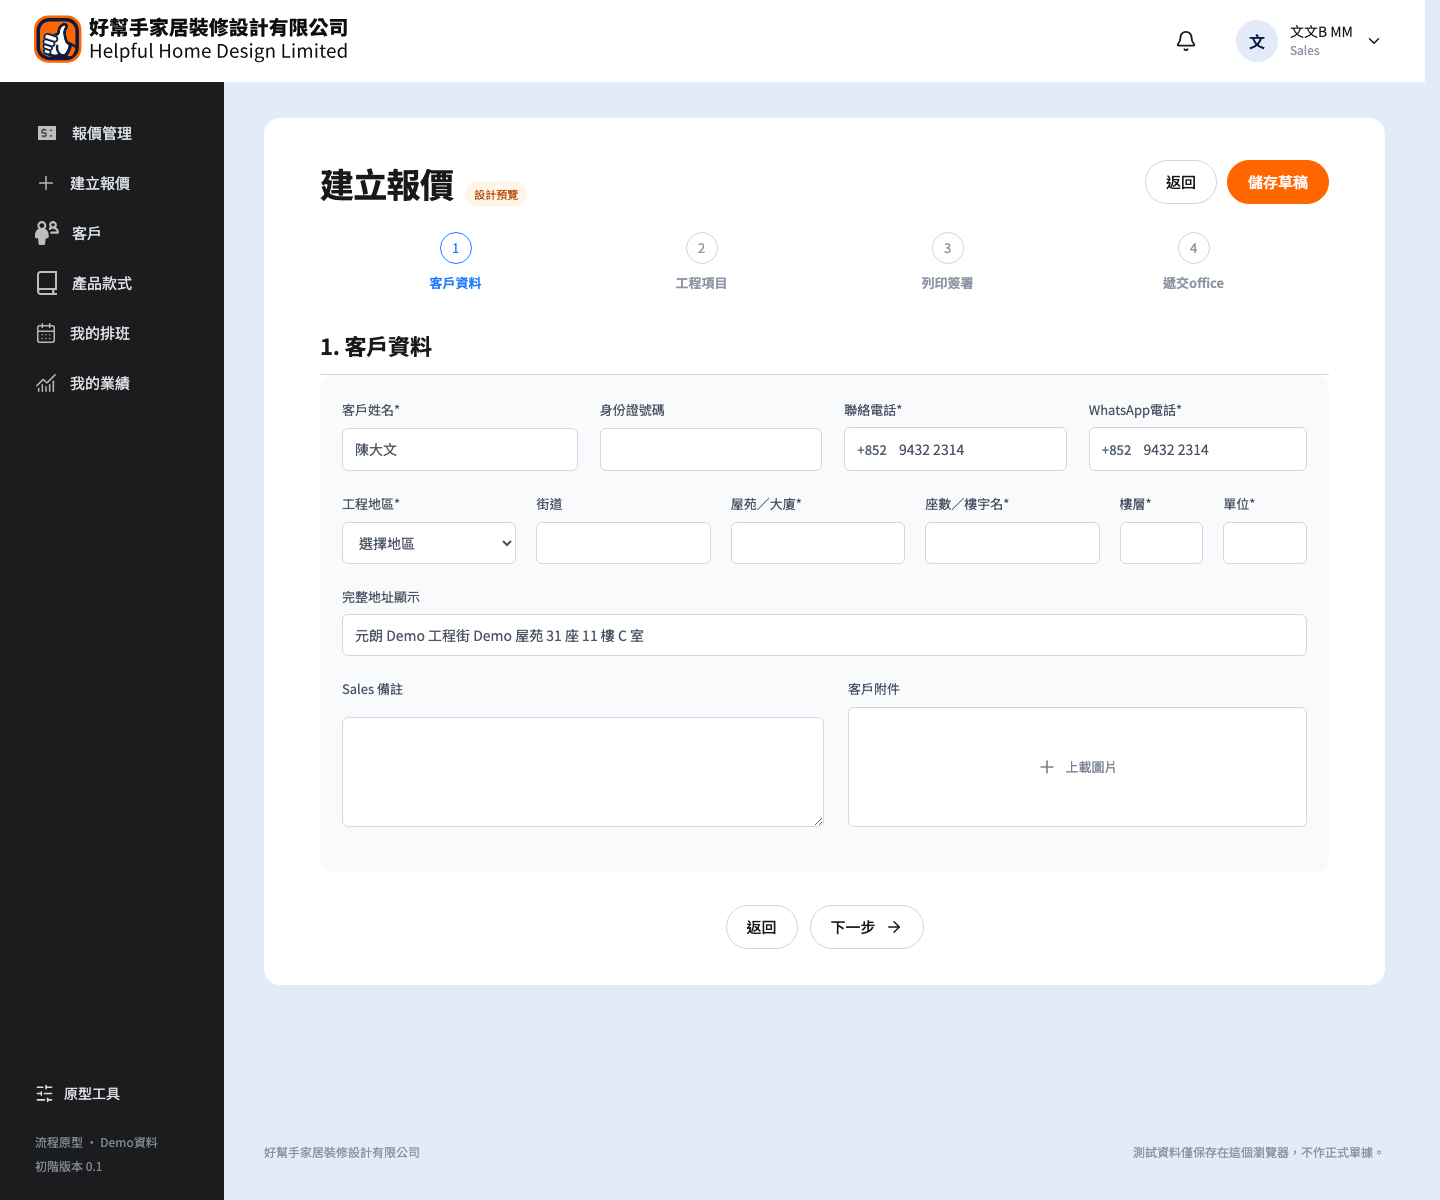
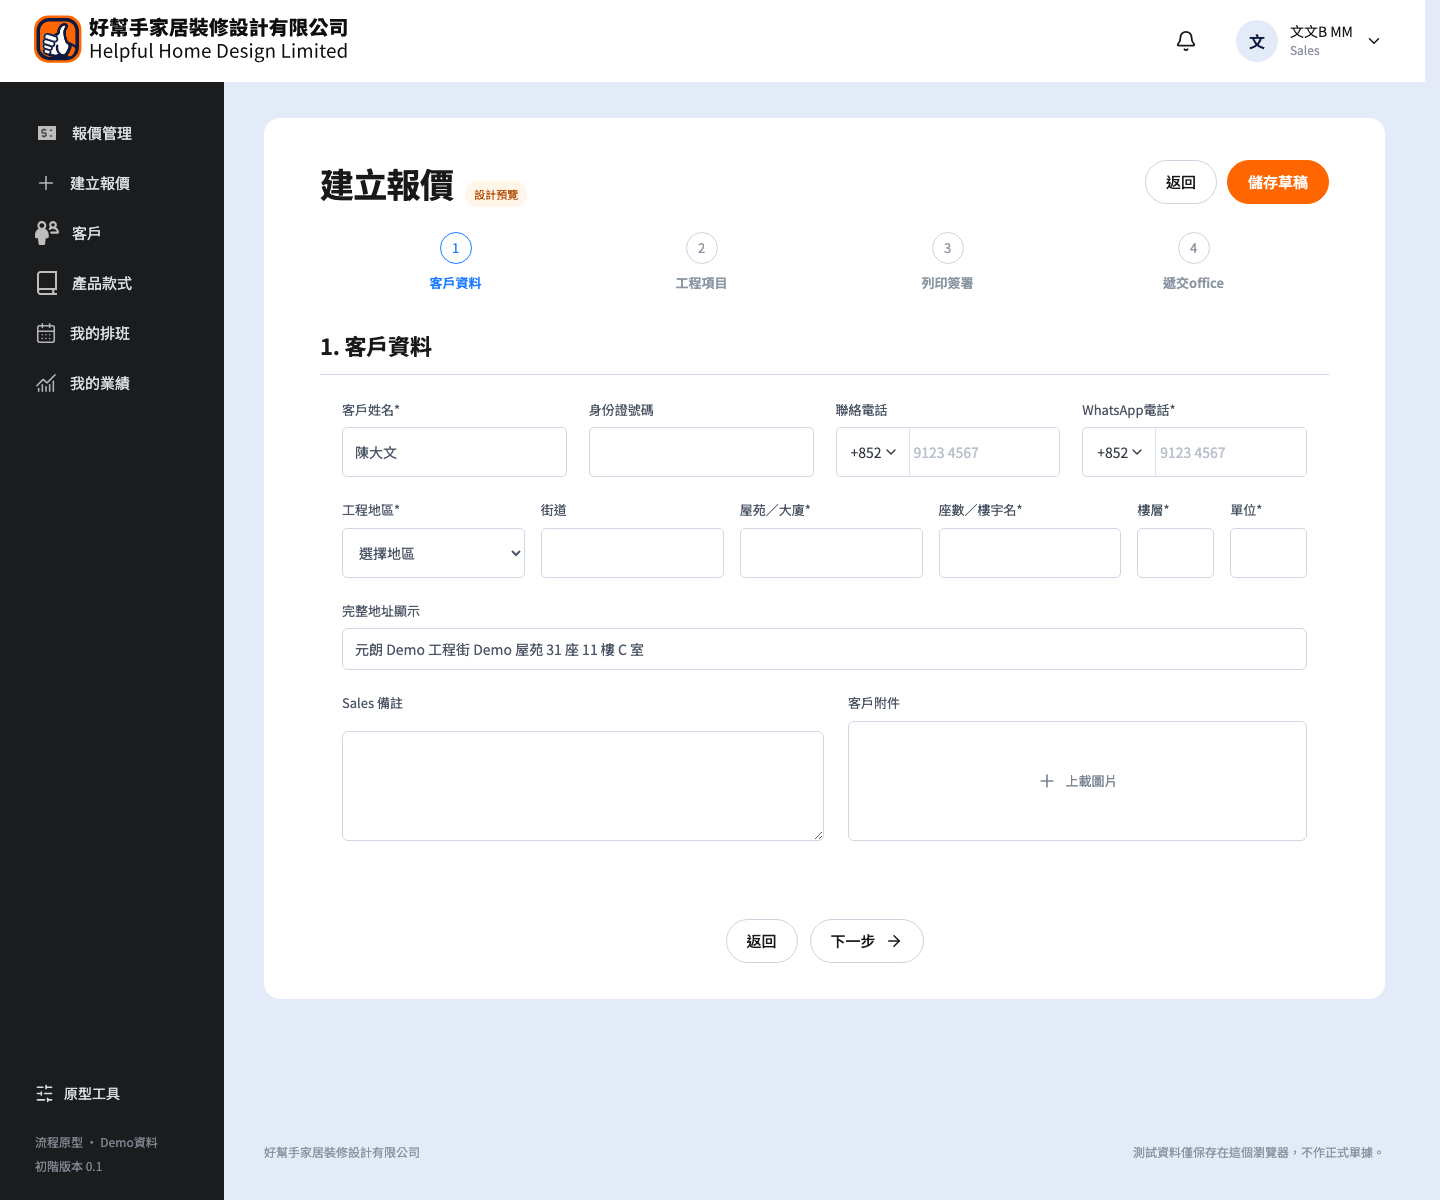
fix(design): match Sales customer information field grid

diff --git a/src/styles.css b/src/styles.css
@@ -9535,3 +9535,76 @@ textarea::placeholder {
     min-height: 90px;
   }
 }
+
+/* Quote step 1 fields: exact reference grid */
+.quote-form-grid.four {
+  grid-template-columns: repeat(4, minmax(0, 1fr));
+  gap: 20px 22px;
+}
+.quote-form-grid.six {
+  grid-template-columns: repeat(4, minmax(0, 1fr)) 0.42fr 0.42fr;
+  gap: 18px 16px;
+}
+.quote-form-grid.four input,
+.quote-form-grid.six input,
+.quote-form-grid.four select,
+.quote-form-grid.six select {
+  min-height: 50px;
+  height: 50px;
+  border-radius: 5px;
+  font-size: 14px;
+}
+.quote-step-section {
+  padding: 24px 22px;
+  background: #fff;
+}
+.quote-phone-input {
+  position: relative;
+  display: flex;
+  align-items: center;
+  height: 50px;
+  overflow: hidden;
+  border: 1px solid #cfd8e4;
+  border-radius: 5px;
+  background: #fff;
+}
+.quote-phone-input select {
+  width: 72px;
+  min-height: 48px !important;
+  height: 48px !important;
+  flex: 0 0 72px;
+  appearance: none;
+  padding: 0 4px 0 14px;
+  border: 0 !important;
+  border-radius: 0 !important;
+  background: transparent;
+  color: #313642;
+  font-size: 14px;
+}
+.quote-phone-input > svg {
+  position: absolute;
+  left: 46px;
+  pointer-events: none;
+  color: #313642;
+}
+.quote-phone-input input {
+  min-width: 0;
+  flex: 1;
+  min-height: 48px !important;
+  height: 48px !important;
+  padding-left: 4px;
+  border: 0 !important;
+  border-left: 1px solid #dbe3ee !important;
+  border-radius: 0 !important;
+  box-shadow: none;
+  font-size: 14px;
+}
+.quote-phone-input input::placeholder {
+  color: #b8c0cc;
+}
+@media (max-width: 900px) {
+  .quote-form-grid.four,
+  .quote-form-grid.six {
+    grid-template-columns: 1fr 1fr;
+  }
+}

diff --git a/src/pages/QuoteWizardPreview.tsx b/src/pages/QuoteWizardPreview.tsx
@@ -4,6 +4,7 @@ import {
   ArrowLeft,
   ArrowRight,
   Check,
+  ChevronDown,
   Plus,
   Printer,
   Trash2,
@@ -101,8 +102,8 @@ export function QuoteWizardPreview() {
             <div className="quote-form-grid four">
               <label>客戶姓名*<input defaultValue="陳大文" /></label>
               <label>身份證號碼<input /></label>
-              <label>聯絡電話*<span className="input-with-prefix"><b>+852</b><input defaultValue="9432 2314" /></span></label>
-              <label>WhatsApp電話*<span className="input-with-prefix"><b>+852</b><input defaultValue="9432 2314" /></span></label>
+              <label>聯絡電話<span className="quote-phone-input"><select defaultValue="+852"><option>+852</option><option>+853</option><option>+86</option></select><ChevronDown size={16} /><input placeholder="9123 4567" /></span></label>
+              <label>WhatsApp電話*<span className="quote-phone-input"><select defaultValue="+852"><option>+852</option><option>+853</option><option>+86</option></select><ChevronDown size={16} /><input placeholder="9123 4567" /></span></label>
             </div>
             <div className="quote-form-grid six">
               <label>工程地區*<select defaultValue=""><option value="">選擇地區</option><option>元朗</option><option>沙田</option></select></label>
